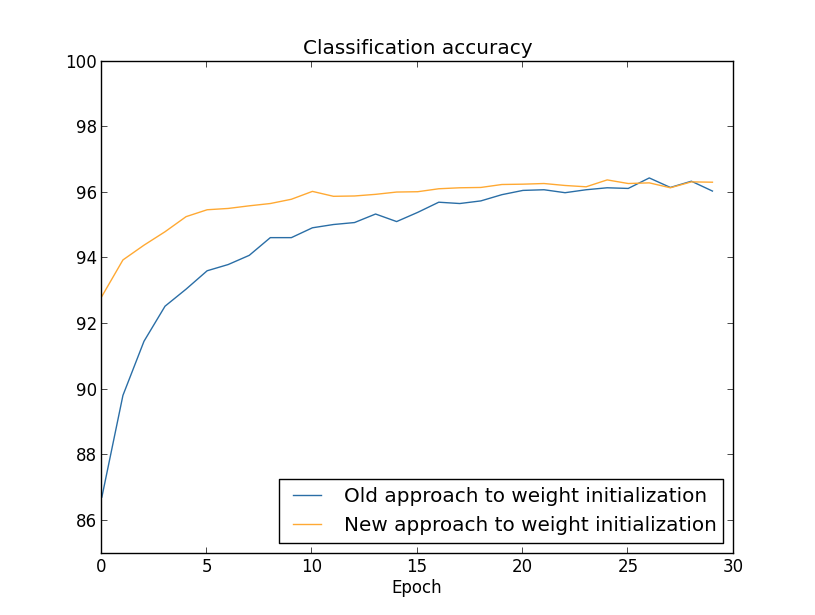
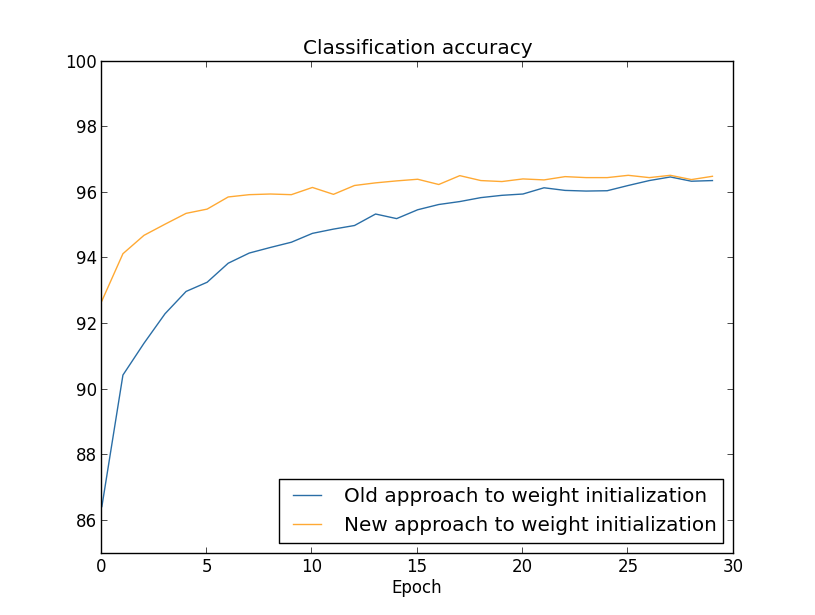
Reparameterizing the weight initialization results

diff --git a/fig/weight_initialization.py b/fig/weight_initialization.py
@@ -11,6 +11,7 @@ square root of the number of input neurons.
 
 # Standard library
 import json
+import random
 import sys
 
 # My library
@@ -22,32 +23,31 @@ import network2
 import matplotlib.pyplot as plt
 import numpy as np
 
-# Make results more easily reproducible
-import random
-random.seed(12345678)
-
-def main(filename):
-    run_network(filename)
+def main(filename, n, eta):
+    run_network(filename, n, eta)
     make_plot(filename)
                        
-def run_network(filename):
+def run_network(filename, n, eta):
     """Train the network using both the default and the large starting
     weights.  Store the results in the file with name ``filename``,
     where they can later be used by ``make_plots``.
 
     """
+    # Make results more easily reproducible
+    random.seed(12345678)
+    np.random.seed(12345678)
     training_data, validation_data, test_data = mnist_loader.load_data_wrapper()
-    net = network2.Network([784, 30, 10], cost=network2.CrossEntropyCost())
+    net = network2.Network([784, n, 10], cost=network2.CrossEntropyCost)
     print "Train the network using the default starting weights."
     default_vc, default_va, default_tc, default_ta \
-        = net.SGD(training_data, 30, 10, 0.01,
-                  evaluation_data=validation_data, lmbda = 0.001,
+        = net.SGD(training_data, 30, 10, eta, lmbda=5.0,
+                  evaluation_data=validation_data, 
                   monitor_evaluation_accuracy=True)
     print "Train the network using the large starting weights."
     net.large_weight_initializer()
     large_vc, large_va, large_tc, large_ta \
-        = net.SGD(training_data, 30, 10, 0.01,
-                  evaluation_data=validation_data, lmbda = 0.001,
+        = net.SGD(training_data, 30, 10, eta, lmbda=5.0,
+                  evaluation_data=validation_data, 
                   monitor_evaluation_accuracy=True)
     f = open(filename, "w")
     json.dump({"default_weight_initialization":
